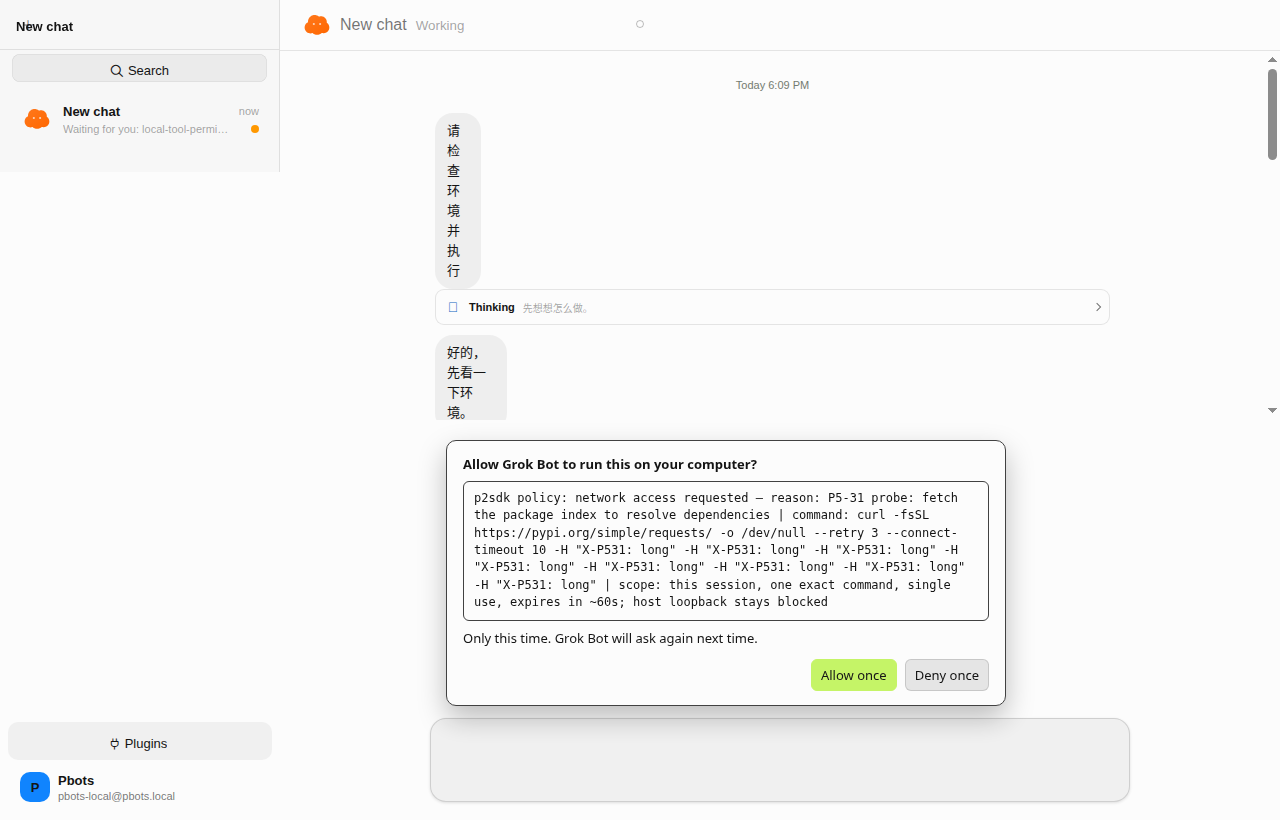
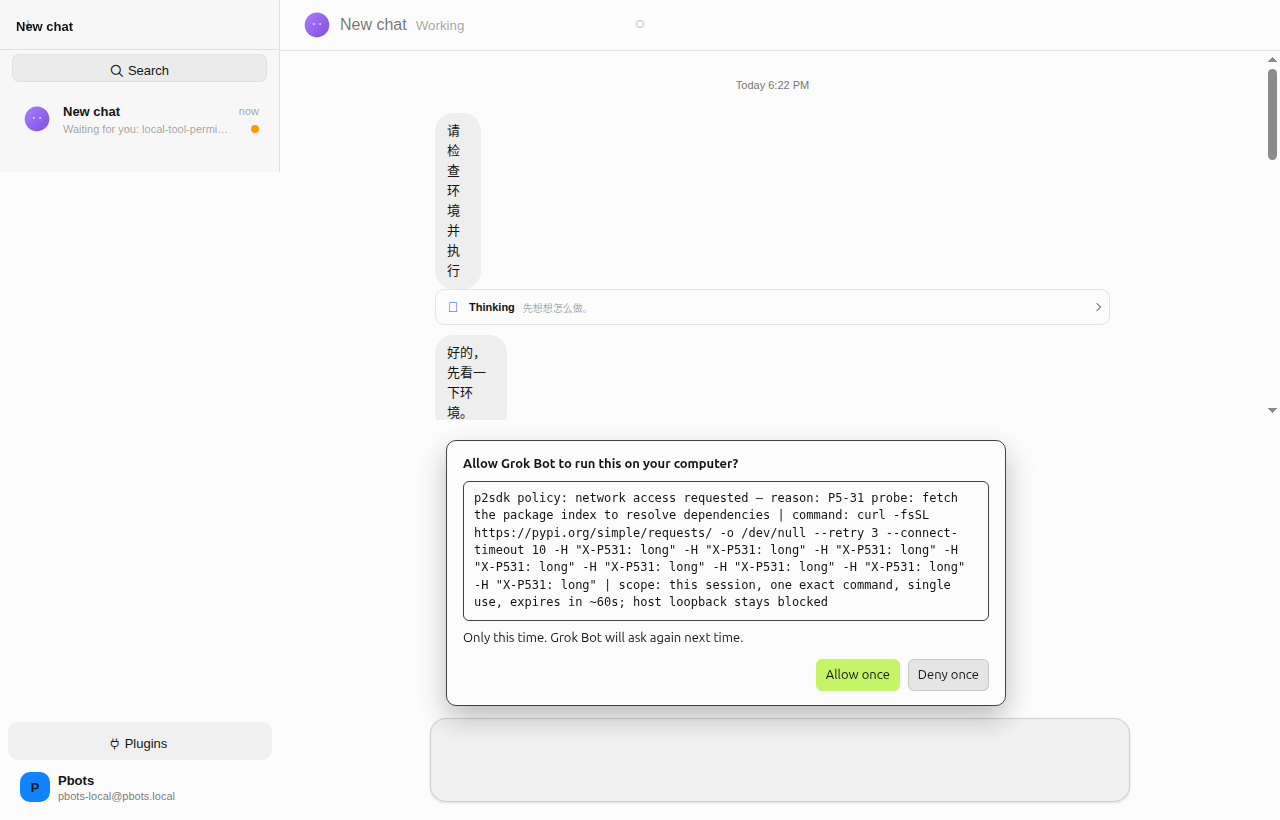
docs(work): P5-31 merged

diff --git a/work/p5-parity/VERIFY-P5-31.md b/work/p5-parity/VERIFY-P5-31.md
@@ -1,0 +1,31 @@
+# VERIFY · P5-31 审批卡 / 设置 L-AP 适配（v3 改范围）
+
+verdict: PASS
+commit: ef7bbf0（分支 feat/P5-31 @ /tmp/bot-wt/P5-31，基 4836bb4；验收时 worktree 干净，红基线改动已恢复）
+
+验收环境：独立复跑，HOME=/tmp/bot-vfy-p5-31，e2e 走 run-e2e.sh 自带 Xvfb（1600x1000x24）。
+
+| 验收项 | 结果 | 证据（命令/文件/截图） |
+|---|---|---|
+| 1a 最终 build 全量（builder 全量跑在样式修正前，本次为修正后复跑） | PASS | `pnpm build`（electron-vite + renderer-grok + shim + stage 四段全 built）；exit 0 |
+| 1b ui vitest 期望 360 | PASS | `pnpm test` → `Test Files 33 passed / Tests 360 passed`，exit 0 |
+| 1c sdk 未动回归 | PASS | `pnpm -C app/sdk test` → 304 passed / 37 files，exit 0 |
+| 1d e2e 全量期望 61/0 | PASS | `pnpm test:e2e`（Xvfb）→ `61 passed (6.6m)` 0 failed，exit 0 |
+| 2a bash 卡恰两钮 + 命令全文 | PASS | grok-shim.spec.ts L108-111：Always allow 按钮 count=0、Never count=0、`button` text 恰 `['Allow once','Deny once']`、`ask-command` 全文 `touch p551-ok`；单跑该 spec 1 passed。截图 `evidence/P5-31/turn1-light.png` 亲眼确认：卡标题「Allow Grok Bot to run this on your computer?」+ 说明「Only this time. Grok Bot will ask again next time.」+ 两钮（Allow once 绿主样式 / Deny once 灰）、命令全文、无任何 Always/Never 字样 |
+| 2b request_network 卡 reason 全文（含范围期限） | PASS | L143-145 断言含 `reason: P5-31 probe: fetch the package index to resolve dependencies`、`command: curl …8 个 -H 头全文`、`scope: this session, one exact command, single use, expires in ~60s`；截图 `evidence/P5-31/net-card-light.png` 亲眼确认三行全文俱在、恰两钮 |
+| 2c Esc = 拒绝 | PASS | L148 `page.keyboard.press('Escape')` → 卡消失（dock count=0）→ 模型回合以「网络未获批准。」收尾；D9 值集断言 L154 `['allowed-once','rejected','rejected']`（bash Deny + 网络 Esc 两拒） |
+| 3 红基线：摘覆盖映射 → Always 计数红 → 恢复绿 | PASS | sed 摘 `MODULE_OVERRIDES` 的 local-tool-view 行 → `pnpm build` → 单跑 grok-shim.spec：`✘ L108 toHaveCount(0) unexpected value "1"`（Always allow 回来了）→ `git checkout --` 恢复 → 重建（4 built）→ 同 spec 1 passed。证明隐藏唯一机制就是覆盖映射，断言非空转 |
+| 4 Never 隐藏取舍复核 | PASS | ui/P5-31-final.md L6 论证「coordinator 把 never 映射 rejected，点它只等于拒一次」；代码确证 `shim/src/coordinator.ts:49-50`：`dshValueOf = resolution === 'allow-once' || resolution === 'always' ? 'allowed-once' : 'rejected'`（注释 L5 同：「deny/never→rejected」）。配套 `desktop.test.ts:66-71`：set('always')/set('never') 均拒存回 'ask'（不留假 Never 态）。论证成立，取舍合理 |
+| 5a 区域 13 文件 | PASS | `git diff --name-only 4836bb4..ef7bbf0` 恰 13 文件（overrides 3 + shim 3 + tests 7），+215/-40 |
+| 5b 上游 diff=0 | PASS | `pnpm -C renderer-grok check` → `upstream diff=0: 332 files`，exit 0 |
+| 5c 与 P5-55 冲突面标注 | PASS | REPORT 已标注两点（卡壳 inline style、MODULE_OVERRIDES 两边加行）；核对属实：P5-55 区域 = `renderer-grok/overrides/` 整目录（PLAN L223，含 token 色板与卡壳 r24 收口），与 P5-31 的 `overrides/modules/local-tool-view.tsx`（inline style）和 `overrides/vite.config.ts`（MODULE_OVERRIDES 加行）直接同域。P5-55 worktree 现停基点 4836bb4 未开工，无实际文件交集，合并时按标注三方处理即可 |
+
+附加核验（REPORT 声称的其余交付）：
+- 设置 Execution 下拉+团队文案隐藏：`d11-d12.spec.ts:53` 起断言设置不再渲染「Execution on Local Computer」且文案扫描恢复无剔除（在 61 全量内通过）。
+- 截图亲验方式说明：截图由 e2e 真实 Electron 会话（Xvfb）`page.screenshot` 产生，仅含应用窗口；已拷贝至主仓 evidence 并用视觉模型逐字核对卡标题/说明/按钮/命令/scope 行。
+
+新问题（每条一行，可直接成为修复任务）：
+
+无。
+
+补充观察（非问题）：net-card 截图中 curl 命令带 8 个 `-H "X-P531: long"` 头是测试脚本自造的长命令（NET_REASON/NET_COMMAND 常量，grok-shim.spec.ts:17-18），用于验证全文不截断，非产品内容。

diff --git a/work/p5-parity/PLAN.md b/work/p5-parity/PLAN.md
@@ -109,7 +109,7 @@ status：ready = 现在可派；todo = 只差本 PLAN 内的前序任务；block
 ### 3.4 W2-AP（frontend-dev，blocked）
 | id | 任务 | owner | 区域 | deps | status | review | 捷径（REUSE 决策行） | 验收（可证伪） | evidence |
 |---|---|---|---|---|---|---|---|---|---|
-| P5-31 | **审批卡三态 + 连接器始终允许 + 0.78.1 卡壳**（A5、A7 UI、A9 ④、A10 UI；按钮顺序与文案 R1 §4.1–4.3；视觉 §0.1 B8/B9） | frontend-dev（先 ux-proposer×2） | `app/ui/renderer/plugins/session/`（审批卡组件）、`app/ui/renderer/shell/store.ts`、`app/ui/tests/e2e/visual-approval.spec.ts`（新） | P5-24, P5-21, **P5-22, P5-23** | blocked | M + GU | 视觉值 R2 §B9；行为 R1 §4.1 | ① 越界、升权、目录外读、连接器写 → 卡只在发起它的 bot、挂在对应 callId 下；拒绝无副作用；仅一次 → 执行，下一次仍出卡；② 「始终允许」只出现在连接器写工具的卡上：bash / 文件 / 升权 / NEVER 卡 DOM 中该按钮数 === 0；③ 点始终允许 → M1 alwaysAllow 只带 eventId；④ 写盘失败 → 卡片保持未决并显示错误；⑤ GU 一轮；升权卡格按 D-1：选 ① / ⑤ 照测，选 ③ / ④ 改为「dfa 请求在会话流显示为带原因的工具错误、无卡」；⑥ 卡壳 computed：radius 24、段 padding-inline 16、标题条 padding 14px 16px、按钮 radius 9999，亮暗各一 | |
+| P5-31 | **审批卡三态 + 连接器始终允许 + 0.78.1 卡壳**（A5、A7 UI、A9 ④、A10 UI；按钮顺序与文案 R1 §4.1–4.3；视觉 §0.1 B8/B9） | frontend-dev（先 ux-proposer×2） | `app/ui/renderer/plugins/session/`（审批卡组件）、`app/ui/renderer/shell/store.ts`、`app/ui/tests/e2e/visual-approval.spec.ts`（新） | P5-24, P5-21, **P5-22, P5-23** | done | M + GU | 视觉值 R2 §B9；行为 R1 §4.1 | ① 越界、升权、目录外读、连接器写 → 卡只在发起它的 bot、挂在对应 callId 下；拒绝无副作用；仅一次 → 执行，下一次仍出卡；② 「始终允许」只出现在连接器写工具的卡上：bash / 文件 / 升权 / NEVER 卡 DOM 中该按钮数 === 0；③ 点始终允许 → M1 alwaysAllow 只带 eventId；④ 写盘失败 → 卡片保持未决并显示错误；⑤ GU 一轮；升权卡格按 D-1：选 ① / ⑤ 照测，选 ③ / ④ 改为「dfa 请求在会话流显示为带原因的工具错误、无卡」；⑥ 卡壳 computed：radius 24、段 padding-inline 16、标题条 padding 14px 16px、按钮 radius 9999，亮暗各一 | |
 | P5-32 |〔v3 改范围：改在移植树 agent-info/settings 与 permissions/view 上做；deps +P5-51〕 **设置 pane：授权列表 / 撤销 / 迁移入口 / 暂停开关**（A8、A11 UI、A13 UI） | frontend-dev（先 ux-proposer×2） | `app/ui/renderer/plugins/settings/` | P5-24, P5-26, P5-29, Q-013(c)(d)(e) | blocked | M + GU | 结构参照 R1 §4.4 | ① X 的 pane 列出「`<serverName>` · `<rawName>` · 始终允许」，撤销后下一次调用出卡，重启仍撤销；② 未迁移旧 bot 显示迁移按钮，点后按钮消失、新会话自主；③ 暂停开关状态与 P5-29 一致；④ GU 一轮 | |
 | P5-33 |〔v3 改范围：用移植树 sand-kit 原语做外观挂进 composer 区；deps +P5-51〕 **提问卡**（A14） | frontend-dev（先 ux-proposer×2） | `app/ui/renderer/plugins/session/questions/`（新）、`app/ui/renderer/shell/store.ts` | P5-28, P5-07 | blocked | M + GU | 改造 `D/client/ui-user-questions/src/client/{QuestionComposer.tsx,QuestionReplyView.tsx}`（第 3 级） | ① 默认 standard 模型工具表含 `ask_user_question`；② fake 发问 → 只在该 bot 的输入区出卡，另一 bot DOM 中 0 张；③ 单选 / 多选 / 自由文本 / 跳过 / 整批提交五种操作各一条 e2e，答案按同批 id 回到工具结果；④ 取消、重载 renderer 后不重复提交（dsh 收到作答次数 === 1）；⑤ GU 一轮 | |
 

diff --git a/work/LOG.md b/work/LOG.md
@@ -892,3 +892,4 @@ ready 未派 = 0（BRIEF/PLAN 未出，无 ready 任务；scout 与 RE 是 roadm
 17:52 P5-54 合并 314b998（patch 方式含删除），回归后台 → P5-55（0.78.1 收口）+ P5-31（审批卡适配）并行已派；P5-57（市场/配置/停止钮 UI）立行 | p5 done 32/33
 17:59 P5-54 合并后回归全绿（356 单测 + 61 e2e exit 0）——main 正式跑在 0.18 renderer 上
 18:12 P5-31 builder 完成（ef7bbf0：Always/Never 隐藏+Execution 卡隐藏有据+命令全文，360+61）→ verifier 派发（最终 build 全量复跑）
+18:27 P5-31 验收 PASS → 合并 a26aaab（vitest 360 绿），e2e 后台 | 在途：P5-55
